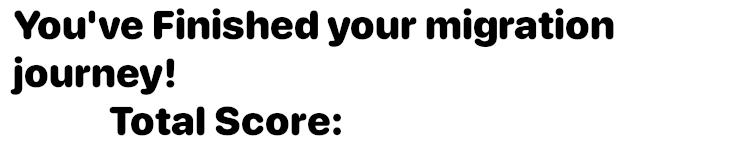
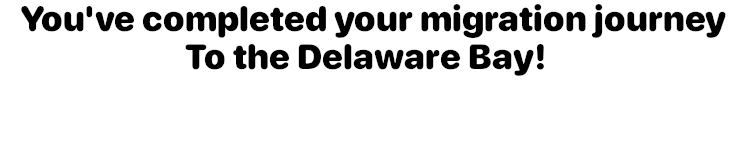
Game changes to redknot

Changed region(s): [[0.0, 0.0267, 0.9813, 0.64], [0.1227, 0.6933, 0.46, 0.9067]]

diff --git a/src/game/RedKnotView.java b/src/game/RedKnotView.java
@@ -88,10 +88,10 @@ public class RedKnotView extends GameView {
 	
 	//Drawing Score Variables:
 	static final String SCORE_TEXT = "Score: ";
-	static final String FINAL_SCORE_TEXT = "";
+	static final String FINAL_SCORE_TEXT = "Total Score:";
 	static final String AMOUNT_OF_BIRDS_TEXT = "x";
 	static final int SCORE_FONT_SIZE = 40;
-	static final int FINAL_SCORE_FONT_SIZE = 50;
+	static final int FINAL_SCORE_FONT_SIZE = 30;
 	
 	
 	//Tutorial 
@@ -100,6 +100,7 @@ public class RedKnotView extends GameView {
 	//End Game
 	boolean reachedDestination;
 	private final int amountOfNests = 6; //[1,6]
+	int amount_of_end_nests = 0;
 	ArrayList<RedKnotNest> redknot_nests;
 	private final int NEST_MIN_WIDTH = 50;
 	private final int NEST_MAX_WIDTH = 150;
@@ -428,7 +429,7 @@ public class RedKnotView extends GameView {
 		
 		for(FlockBird fb:flock_list) {
 			int random_x = Utility.randRangeInt(0, GameScreen.PLAY_SCREEN_WIDTH);
-			int random_y = Utility.randRangeInt((int)(GameScreen.PLAY_SCREEN_HEIGHT*.5), GameScreen.PLAY_SCREEN_HEIGHT);
+			int random_y = Utility.randRangeInt((int)(GameScreen.PLAY_SCREEN_HEIGHT*.6), (int)(GameScreen.PLAY_SCREEN_HEIGHT*.9));
 			Position p = new Position(random_x, random_y);
 			
 			int random_width = Utility.randRangeInt(NEST_MIN_WIDTH, NEST_MAX_WIDTH);
@@ -507,7 +508,7 @@ public class RedKnotView extends GameView {
 		
         float[] coords=new float[6];
         this.points = new ArrayList<>();
-		this.iter=new FlatteningPathIterator(map_curve.getPathIterator(new AffineTransform()), 0.01);
+		this.iter=new FlatteningPathIterator(map_curve.getPathIterator(new AffineTransform()), 0.001);
         while (!this.iter.isDone()) {
             this.iter.currentSegment(coords);
             int x=(int)coords[0];
@@ -575,11 +576,11 @@ public class RedKnotView extends GameView {
 			//System.out.println(fm.getFont());
 			
 			//The String being drawn
-			String toDrawString = "    "+this.FINAL_SCORE_TEXT + this.score+", #RedKnots:"+this.checkAmountOfOwnedRedKnots()+", #Nests:"+this.amountOfNests;
+			String toDrawString = this.FINAL_SCORE_TEXT + this.score+", #RedKnots:"+this.checkAmountOfOwnedRedKnots()+", #Nests:"+this.redknot_nests.size();
 			int string_width = fm.stringWidth(toDrawString);
 			BufferedImage final_banner = (BufferedImage)objectMap.get(RedKnotAsset.REDKNOTBANNER);
 			g.drawImage(final_banner, (GameScreen.PLAY_SCREEN_WIDTH-final_banner.getWidth())-((GameScreen.PLAY_SCREEN_WIDTH-final_banner.getWidth())/2),0,final_banner.getWidth(),final_banner.getHeight(),null);
-			g.drawString(toDrawString, (GameScreen.PLAY_SCREEN_WIDTH/2)-(string_width/2)-GameScreen.SCREEN_BORDER_PX, 0-this.FINAL_SCORE_FONT_SIZE+final_banner.getHeight()+40);
+			g.drawString(toDrawString, (GameScreen.PLAY_SCREEN_WIDTH/2)-(string_width/2)-GameScreen.SCREEN_BORDER_PX, 0-this.FINAL_SCORE_FONT_SIZE+final_banner.getHeight());
 		}
 		else {
 			g.setFont(new Font("Serif",Font.PLAIN,this.SCORE_FONT_SIZE));

diff --git a/src/game/RedKnotGameState.java b/src/game/RedKnotGameState.java
@@ -165,16 +165,22 @@ public class RedKnotGameState extends GameState {
 				public void run() {
 					isGameRunning = false;
 
-					while((isDown_key_pressed()==false&&isUp_key_pressed()==false)) {
-						
-						//NOTE: DO NOT REMOVE PRINT STATEMENTS,
-						//game is not able to pull boolean values without them
-						System.out.println("DOWNKEY:"+isDown_key_pressed());
-						System.out.println("UPKEY:"+isUp_key_pressed());
-					}
-					current_TA = null;
-					isGameRunning = true;
-					doneTutorial = true; //indicates that the tutorial is completely done 
+					GameTimer delay_timer = new GameTimer(new TimerTask() {
+							@Override
+							public void run() {
+								while((isDown_key_pressed()==false&&isUp_key_pressed()==false)) {
+									
+									//NOTE: DO NOT REMOVE PRINT STATEMENTS,
+									//game is not able to pull boolean values without them
+									System.out.println("DOWNKEY:"+isDown_key_pressed());
+									System.out.println("UPKEY:"+isUp_key_pressed());
+								}
+								current_TA = null;
+								isGameRunning = true;
+								doneTutorial = true; //indicates that the tutorial is completely done 
+							}
+						}, (int)(GameTimer.ONE_SECOND));
+					
 					
 				}
 			}), new Position(RK.getPosition().getX()+RK.getSize().getWidth(),RK.getPosition().getY()), new Size(350,200), RedKnotAsset.RKGOALS);

diff --git a/src/game/GameTimer.java b/src/game/GameTimer.java
@@ -21,8 +21,8 @@ public class GameTimer extends Timer {
 		}, 5000);
 	}
 	
-	public GameTimer(TimerTask TK){
-		this.schedule(TK, 5000);
+	public GameTimer(TimerTask TK, int delay){
+		this.schedule(TK, delay);
 	}
 		
 	//The timer is delayed by 'delay' then performs 
